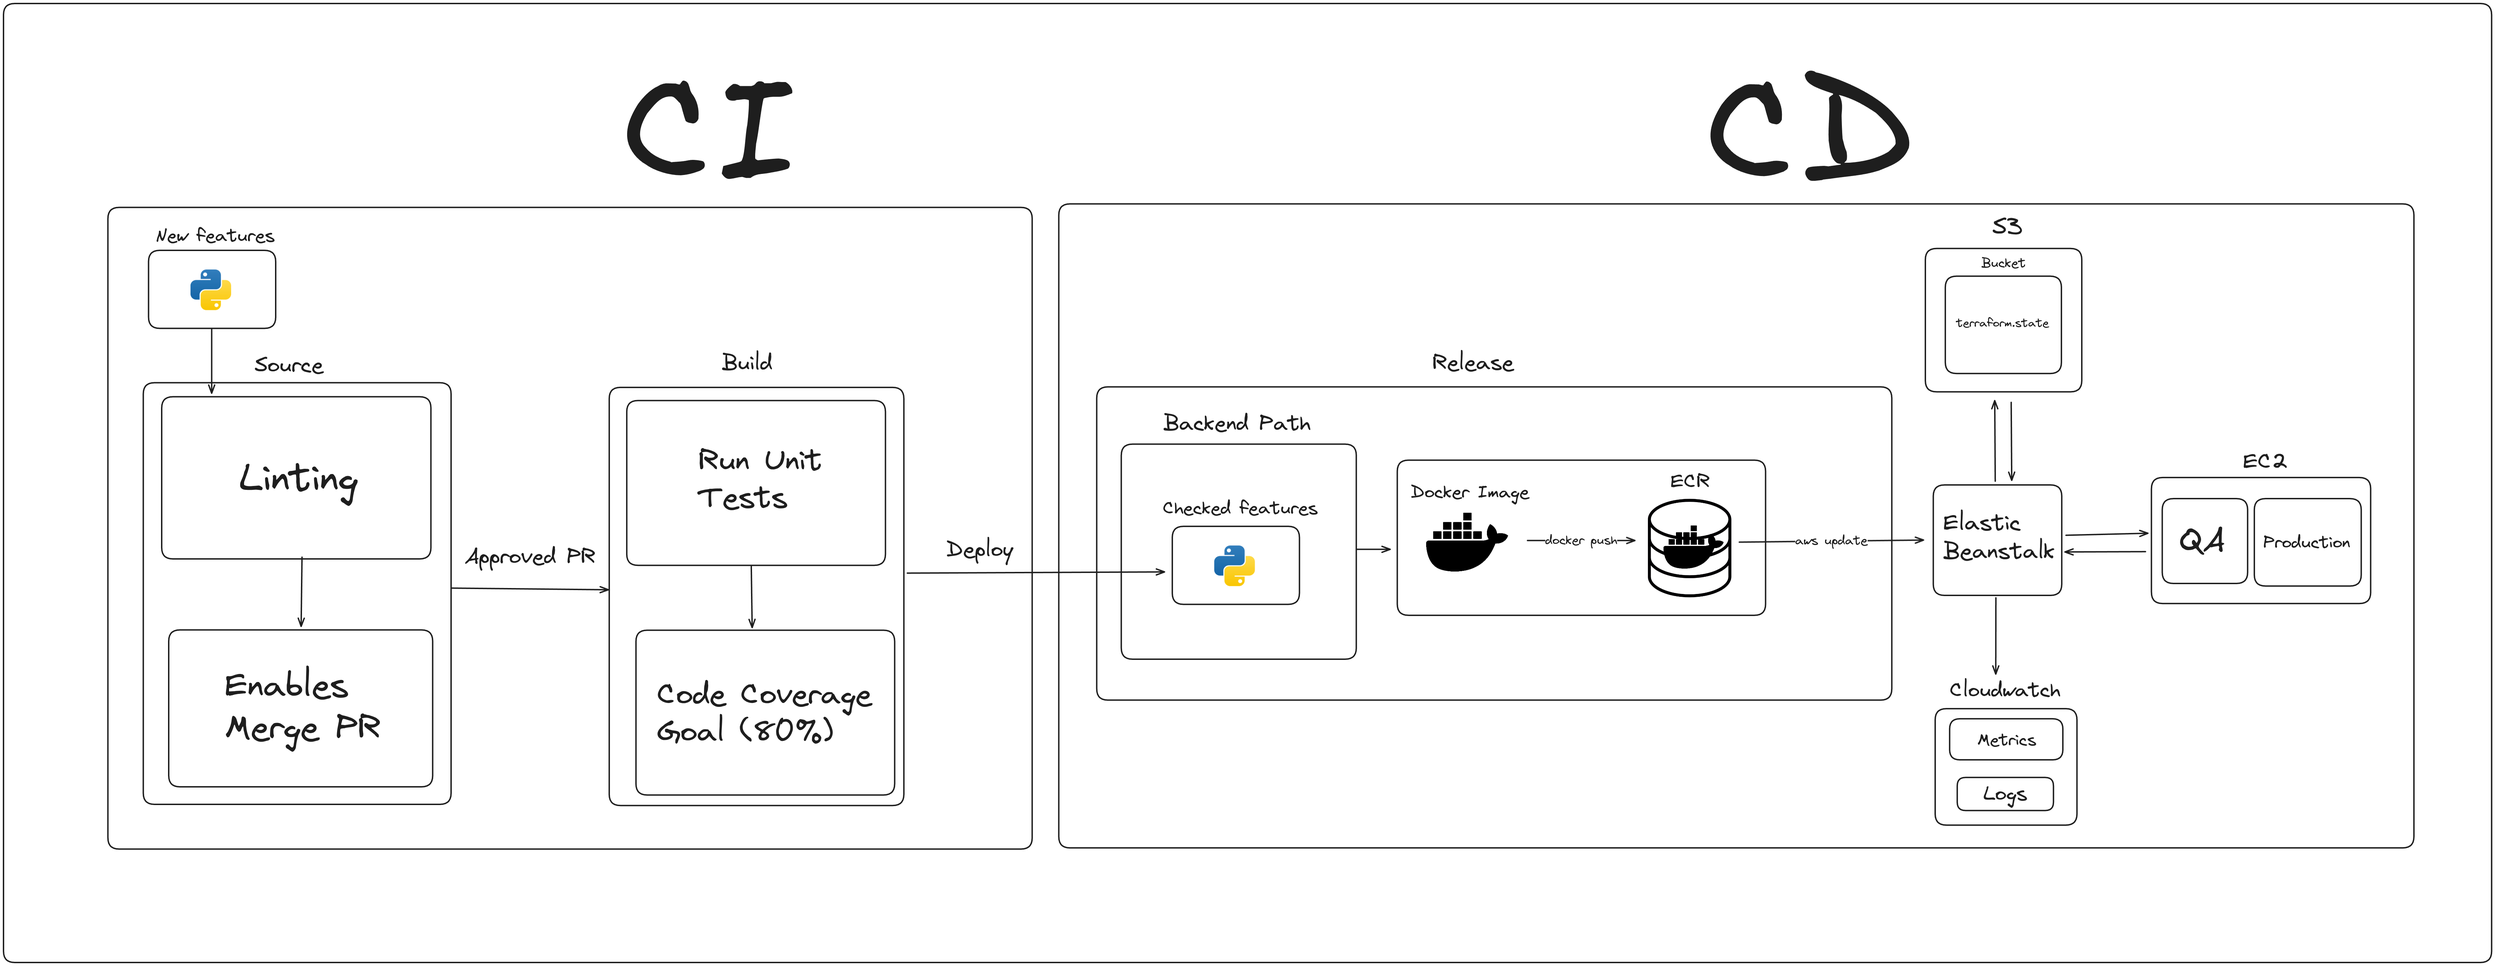
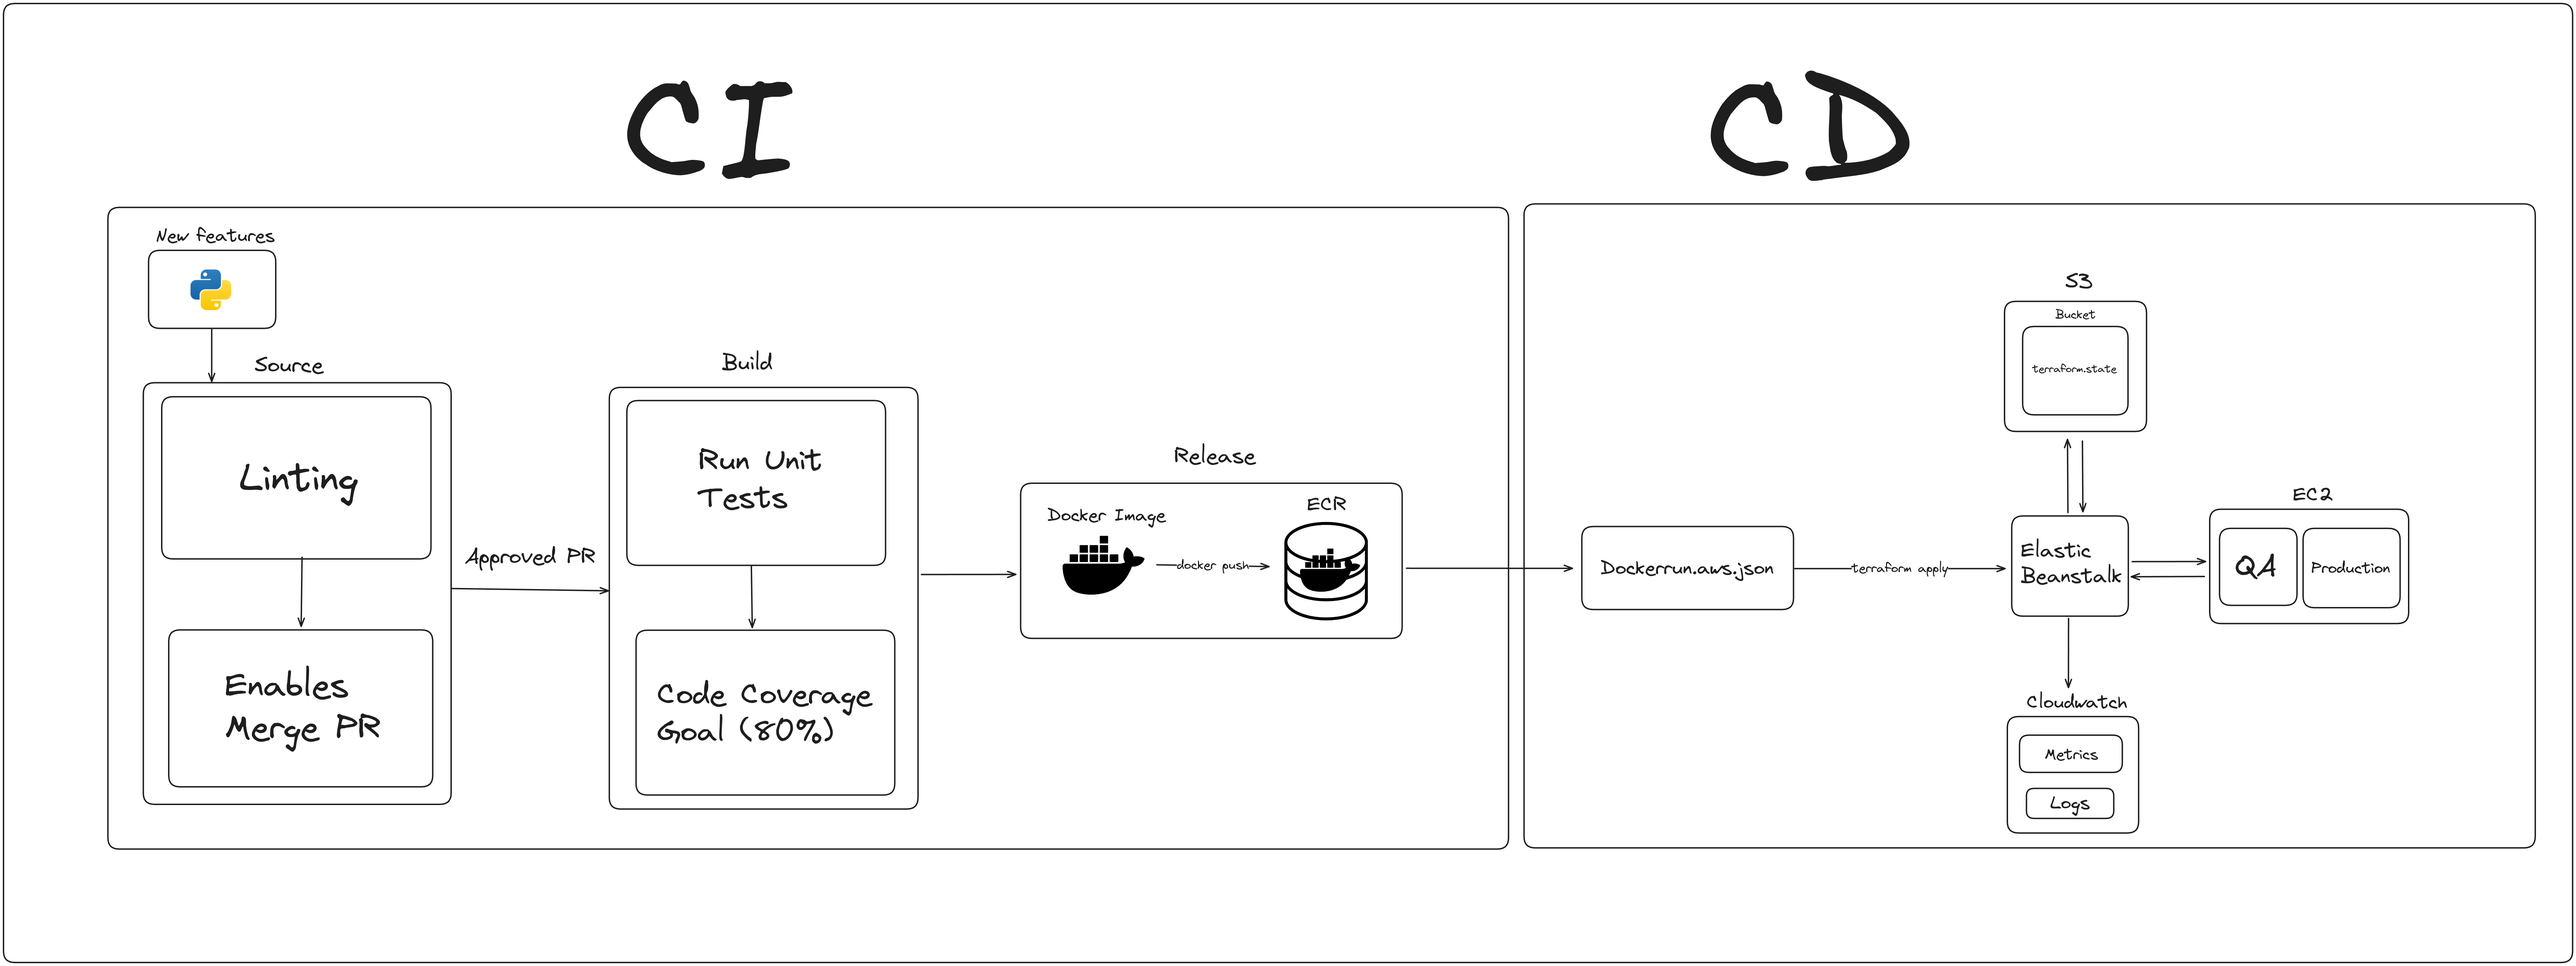
DOCS: Adding final docs and accessibility description for images

diff --git a/Entregas/DO-01/README.md b/Entregas/DO-01/README.md
@@ -1,58 +1,140 @@
-# Nome dos integrantes
-- Alan de Oliveira Gonçalves
-- Andrei Ferreira Lançanova
-- Carlos Alexander Alves de Souza
-- Edgar Brabo
-- Girley Alves de Lima
-- Vinícius Piotto
-- Walter Netto
-- Welington Júlio Dias Rodrigues
+![Gif AdaTech](img/ada.gif)
 
-# Nome do Projeto
-Zoo da diversidade e inclusão
+# Hackathon AdaTech - Vem ser Tech (trilha DevOps)
 
-# Proposta 
+## Case: Aplicação de Zoológico com Inclusão visual
 
-1. Introdução
+**💪 Desafio:**
 
-Este documento apresenta uma abordagem detalhada para um projeto em DevOps no GitHub focado em aumentar a diversidade e a inclusão na equipe da Corp Solutions. Este projeto visa criar estratégias e desenvolver soluções inovadoras que promovam uma cultura organizacional mais diversificada e inclusiva, utilizando tecnologia e criatividade para enfrentar esse desafio.
+Vocês fazem parte de um time de consultoria da corpsolution, que foi alocado em um projeto em um zoológico. Vocês terão acesso a um projeto e o desafio é criar pipelines de CI/CD relacionados ao tema de Diversidade e Inclusão e configurar a infraestrutura necessária para hospedar e escalar a aplicação API em Python. Eles devem garantir a automação dos processos de construção, teste e implantação da aplicação, seguindo as melhores práticas de DevOps.
 
-2. Contexto e Justificativa
+**📦Entregáveis:**
+* Documentação detalhada dos pipelines e infraestrutura criados, incluindo instruções de configuração e operação.
 
-A diversidade e a inclusão são essenciais para o sucesso de qualquer organização. Ao promover um ambiente de trabalho diversificado e inclusivo, a Corp Solutions não apenas fortalece sua equipe, mas também reflete os valores éticos e morais da empresa.
+* Apresentação final do projeto, demonstrando os pipelines e infraestrutura implementados e explicando as decisões tomadas durante o processo de desenvolvimento.
 
-3. Objetivos do Projeto
+## Resolução do time DO-1
 
-Aumentar a diversidade étnica, de gênero e de origens socioeconômicas na equipe da Corp Solutions.
-Promover uma cultura organizacional mais inclusiva e equitativa.
-Utilizar tecnologia e práticas de DevOps para desenvolver soluções inovadoras que apoiem esses objetivos.
+Essa aplicação tem como objetivo, criar uma infraestrutura para uma API de Zoológico, utilizando funções que faça a inclusão de pessoas com deficiencia visual, com o objetivo de aumentar a diversidade e inclusão desse grupo na empresa Corp Solutions.
 
-4. Estratégias e Metodologias
+Para criar uma inclusão dentro do código, pensamos em definir documentações iniciais em todos os arquivos necessários para a configuração de CI/CD da aplicação. Um fato importante é que pessoas com deficiência visual utilizam programadas que fazem a leitura de arquivos, utilizando ferramentas como o <a href="https://www.nvaccess.org/">NVDA</a>, incluindo arquivos de ambiente de programação. E muitas vezes, para o entendimento daquele arquivo é necessário que eles tenham que passar linha a linha para ver as configurações que estão sendo aplicadas no arquivo em questão. Então, para resolver esse problema, se tivermos descrições detalhadas das configurações que estão sendo contempladas naquele arquivo, o membro com defiência visual poderia facilmente entender as funcionalidades de todas as partes da aplicação e, consequentemente, ter maior inclusão e produtividade no ambiente de trabalho.
 
-Recrutamento e Seleção: Implementar práticas de recrutamento inclusivas, como a remoção de viéses de gênero e étnicos em processos seletivos.
-Treinamento e Sensibilização: Oferecer treinamentos sobre diversidade e inclusão para todos os colaboradores.
-Mentoria e Networking: Estabelecer programas de mentoria que conectem colaboradores de diferentes origens.
-Análise de Dados: Coletar e analisar dados demográficos para monitorar a diversidade da equipe.
-Cultura Organizacional: Promover uma cultura organizacional inclusiva, onde o respeito à diversidade seja valorizado.
+### Colaboradores:
 
-5. Ferramentas Utilizadas
+<div align="center"> 
+<table align="center">
+  <tr align="center">
+    <td>
+      <a href="https://github.com/andreiflancanova">
+        <img src="https://avatars.githubusercontent.com/u/102532839?v=4" width=100 />
+        <p>Andrei  <br/>Lançanova</p>
+      </a>
+    </td>
+    <td>
+      <a href="https://github.com/viniciushpiotto">
+        <img src="https://avatars.githubusercontent.com/u/163603745?v=4" width=100 />
+        <p>Vinícius  <br/>Piotto</p>
+      </a>
+    </td>
+        <td>
+      <a href="https://github.com/Walttinho">
+        <img src="https://avatars.githubusercontent.com/u/40149590?v=4" width=100 />
+        <p>Walter  <br/>Netto</p>
+      </a>
+    </td>
+    <td>
+      <a href="https://github.com/W3l1n6t0n">
+        <img src="https://avatars.githubusercontent.com/u/87627283?v=4" width=100 />
+        <p>Welington  <br/>Júlio</p>
+      </a>
+    </td>
+  </tr>
+</table>
+</div>
 
-Python 3.11: Utilizado como linguagem principal de desenvolvimento.
-.github\workflows: Pasta com códigos e configurações específicas para integração e entrega contínuas (CI/CD).
+### Tecnologias:
 
-6. Implementação no GitHub
+![Git](https://img.shields.io/badge/git-%23F05033.svg?style=for-the-badge&logo=git&logoColor=white)
+![GitHub](https://img.shields.io/badge/github-%23121011.svg?style=for-the-badge&logo=github&logoColor=white)
+![GitHub Actions](https://img.shields.io/badge/github%20actions-%232671E5.svg?style=for-the-badge&logo=githubactions&logoColor=white)
+![Terraform](https://img.shields.io/badge/terraform-%235835CC.svg?style=for-the-badge&logo=terraform&logoColor=white)
+![Docker](https://img.shields.io/badge/docker-%230db7ed.svg?style=for-the-badge&logo=docker&logoColor=white)
+![AWS](https://img.shields.io/badge/AWS-%23FF9900.svg?style=for-the-badge&logo=amazon-aws&logoColor=white)
 
-Repositório: Criar um repositório no GitHub dedicado ao projeto de diversidade e inclusão.
-Branches: Utilizar branches separados para o desenvolvimento de novas funcionalidades e correções de bugs.
-Pull Requests: Utilizar pull requests para revisão de código e integração das alterações ao branch principal.
-CI/CD: Configurar pipelines de integração e entrega contínuas usando GitHub Actions para automatizar testes e implantações.
+### Pipeline - DevOps
 
-7. Resultados Esperados
+![Pipeline](img/pipeline.png "A imagem apresenta o fluxo de CI/CD que foi pensado para este projeto, onde uma nova feature passa pelo processo de source, onde o linting é analisado, habilitando o merge do Pull Request, passando depois para a etapa de Build que instala as dependências, executa os testes automatizados e valida a cobertura de testes mínima de 80%, indo então para a etapa de release, que faz a criação da imagem Docker da aplicação e envia esta imagem para o repositório do Amazon ECR. Esta imagem é então deployada no ambiente através do uso do Elastic Beanstalk, que mobiliza os recursos necessários para fazer o deploy.")
 
-Aumento da diversidade e inclusão na equipe da Corp Solutions.
-Melhoria da cultura organizacional e do ambiente de trabalho.
-Desenvolvimento de soluções inovadoras que possam ser compartilhadas com outras organizações.
+## Continuous Integration:
 
-8. Conclusão
+### O que é Integração Contínua (CI)?
 
-Este projeto representa um compromisso da Corp Solutions em promover a diversidade e a inclusão em sua equipe, utilizando práticas de DevOps e tecnologia. Ao implementar estratégias inovadoras e colaborativas, estamos confiantes de que podemos criar um ambiente de trabalho mais diversificado, inclusivo e equitativo. Junte-se a nós nessa jornada e faça parte da mudança!
+De acordo com a própria [AWS](https://aws.amazon.com/pt/devops/continuous-integration/#:~:text=A%20integra%C3%A7%C3%A3o%20cont%C3%ADnua%20%C3%A9%20uma,cria%C3%A7%C3%B5es%20e%20testes%20s%C3%A3o%20executados.), a integração contínua é uma prática de desenvolvimento de software de DevOps em que os desenvolvedores, com frequência, juntam suas alterações de código em um repositório central. 
+
+Depois disso, criações e testes são executados. Geralmente, a integração contínua é a fase de compilação ou integração do processo de lançamento de software e consiste em um componente de automação (por exemplo, um serviço de CI ou compilação) e um componente cultural (por exemplo: aprender a integrar com frequência).
+
+Os principais objetivos da integração contínua são encontrar e investigar erros mais rapidamente, melhorar a qualidade do software e reduzir o tempo necessário para validar e lançar novas atualizações de software.
+
+![Fluxo de CI/CD](https://servicewordpressigti.azurewebsites.net/wp-content/uploads/2022/11/CI-CD-devops-como-funciona.png "A imagem mostra o símbolo de infinito do CI/CD, onde o processo de CI começa com a etapa de planejamento, passando pela etapa de código, seguindo para a etapa de compilação e execução de testes automatizados, sendo encerrado na etapa de Release, onde os artefatos de aplicação são enviados para a parte de deploy, que é escopo da parte de CD.")
+
+
+## Proposta de Pipeline de Integração Contínua (CI) do IntegraZoo
+
+A ideia da equipe do IntegraZoo consistiu em utilizar uma pipeline CI baseada nas seguintes etapas:
+- Source
+- Build
+- Release
+
+### Source
+A etapa de Source inicia quando um Pull Request é aberto, onde é executada uma validação para identificar se há algum problema com o código que se intenciona submeter ao repositório. 
+
+#### Linting (Enables Merge PR)
+
+Para isso, considerando que a aplicação em questão é uma app Python, foi utilizado um linter largamente utilizado para esta linguagem que é o [Flake8](https://aws.amazon.com/pt/devops/continuous-integration/#:~:text=A%20integra%C3%A7%C3%A3o%20cont%C3%ADnua%20%C3%A9%20uma,cria%C3%A7%C3%B5es%20e%20testes%20s%C3%A3o%20executados.). A seguir são mostrados dois exemplos, sendo o primeiro de um caso de PR que passou na validação de linting, e o segundo, um caso onde existiam problemas de código.
+
+![Erro de Linting](img/source-linting-error.png "A imagem mostra um erro de linting que exibe a seguinte mensagem: 'Expected 2 blank lines, found 1 (E302)'")
+
+![Linting Ok](img/source-linting-ok.png "A imagem mostra uma tela com um símbolo de validação verde ao lado da mensagem de commit 'FIX: Docker Image Tag point to commit hash', assim como a execução OK do Linting que mostra a mensagem 'No issues Flake8 found no issues'")
+
+Estando esta validação ok, é habilitado o recurso de Merge para o Pull Request. A ação de Merge do Pull Request dá início ao processo de Build.
+
+### Build
+
+A etapa de build deste projeto consiste no download dos artefatos que são dependências do projeto, que são baixados conforme a especificação do arquivo [requirements.txt](https://github.com/adahack-2024-devops-team-do-1/adahack-2024-devops-team-do-1/blob/develop/backend/requirements.txt).
+
+#### Run Unit Tests
+Após, são executados os testes unitários da aplicação, que intencionam um Code Coverage Report de 80%. Quando a execução dos testes é concluída, o usuário que abriu o Pull Request é notificado
+
+![Coverage Report](img/build-coverage-report.png "Ação automatizada do GitHub Actions faz comentário no Pull Request informando a quantidade de linhas de código, a quantidade de linhas cobertas por testes, a porcentagem de cobertura de testes, e a porcentagem faltante para o objetivo de 80%")
+
+Uma vez estando ok o fluxo de build, isso sensibiliza o processo de release.
+
+### Release
+
+O processo de release consiste em executar o docker build da imagem da aplicação, bem como a sua publicação no Amazon Elastic Container Registry (ECR).
+
+Para que isso seja possível, é necessário criar uma role do IAM que conceda as devidas permissões de acesso para o GitHub Actions. Neste projeto, isso foi feito utilizando um OIDC provider, cujo processo de criação foi realizado via console da AWS, em passo-a-passo devidamente descrito [neste link](https://aws.amazon.com/pt/blogs/security/use-iam-roles-to-connect-github-actions-to-actions-in-aws/). É importante frisar que é necessário conceder as permissões para as ferramentas do ECR, S3 e do IAM, para que esta role possa ser utilizada tanto para a parte de release quanto para a parte de deploy utilizando o Terraform.
+
+Uma vez conferidas as permissões, é utilizada a GitHub Action [Configure AWS Credentials for GitHub Actions](https://github.com/aws-actions/configure-aws-credentials), que recebe a URL ARN da role que foi criada para uso do GitHub Actions, assim com a região da AWS na qual o repositório privado do ECR foi criado, conforme pode ser consultado no arquivo [release.yml](https://github.com/adahack-2024-devops-team-do-1/adahack-2024-devops-team-do-1/blob/develop/.github/workflows/release.yml).
+
+Neste projeto, por questão de facilidade de versionamento, foi utilizado como tag de versionamento de releases o commit hash do Merge do último Pull Request realizado. A figura a seguir ilustra a pipeline executando de forma bem-sucedida o envio da nova imagem para o ECR:
+
+![Release bem-sucedida](img/release-ok.png "A figura mostra a tela do GitHub Actions, mostrando todas as etapas de Release: Set up job, Git checkout, Configure aws credentials, Login to Amazon ECR, Build and Push, Post Build and push, Post Login to Amazon ECR, Post Configure aws credentials, Post Git checkout e Complete job")
+
+## Continuous Delivery:
+
+Na busca pela otimização da abordagem adequada ao projeto, optamos por implementar o **Elastic Beanstalk**, levando em consideração a simplicidade da estrutura da aplicação, desprovida de um banco de dados ou outras camadas que demandem configurações específicas. A escolha se fundamentou na **facilidade de uso**, na **gestão automática de carga** e no **monitoramento de recursos oferecidos pelo serviço**. Todavia, é importante ressaltar algumas desvantagens inerentes a essa implementação, tais como a **limitação no controle total da infraestrutura** e a necessidade de garantir a reprodutibilidade e consistência ao criar ambientes semelhantes, como os de desenvolvimento e produção.
+
+Para armazenar as imagens dos contêineres, estabelecemos a criação de um repositório no **Elastic Container Registry (ECR)**, visando a velocidade no momento da atualização por estar no mesmo serviço da aplicação.Entretanto, outra abordagem bastante recorrente seria utilizar o serviço do Docker Hub para armazenar as nossas imagens por meio de um repositório privado.
+
+Além disso, utilizamos o **Simple Storage Service (S3)** para guardar o arquivo de configuração **Dockerrun**, compactado em formato zip. Esse arquivo contém o nome do repositório no ECR, juntamente com sua última versão atualizada, permitindo assim a **atualização automática da aplicação** no Elastic Beanstalk sempre que houver uma nova versão na branch de produção.
+
+Por fim, empregamos um arquivo **deploy.yml** que automatiza todas as ações requeridas após o recebimento de um novo push no repositório de infraestrutura. Isso inclui a atualização do arquivo Dockerrun.aws.json, a inicialização do Terraform, a passagem de **variáveis sensíveis** por meio dos GitHub Actions Secrets, a aplicação de todas as atualizações via terraform apply e a finalização das configurações do ambiente do Elastic Beanstalk.
+
+Apesar da estrutura já estabelecida, há aspectos que viso aprimorar progressivamente:
+
+-  Um desses pontos é a adoção do **Kubernetes** para orquestração de contêineres, visando uma **escalabilidade** e *resiliência superiores*, pois a robustez do monitoramento fornecido pelo Kubernetes é crucial nesse contexto. 
+
+- Além disso, pretendo fortalecer as práticas de **segurança**, explorando maneiras de ocultar informações sensíveis que possam representar obstáculos futuros para a aplicação.
+
+- Por fim, a integração de **ferramentas de monitoramento** de logging surge como uma boa escolha para a estratégica de identificar e resolver problemas de forma ágil e concisa.
